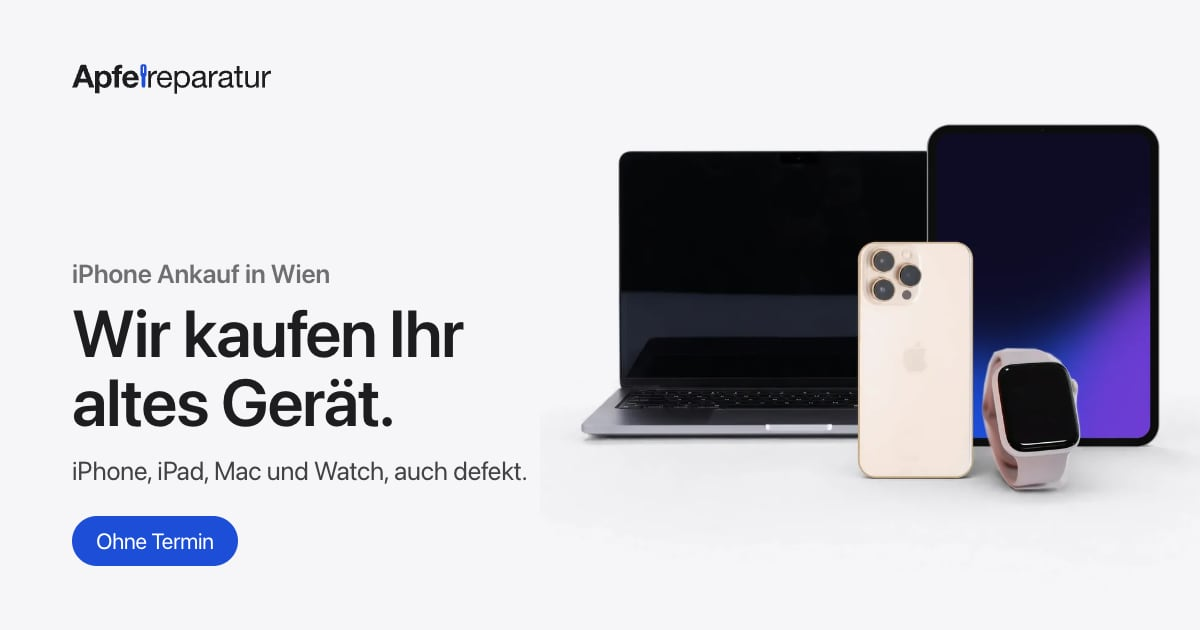
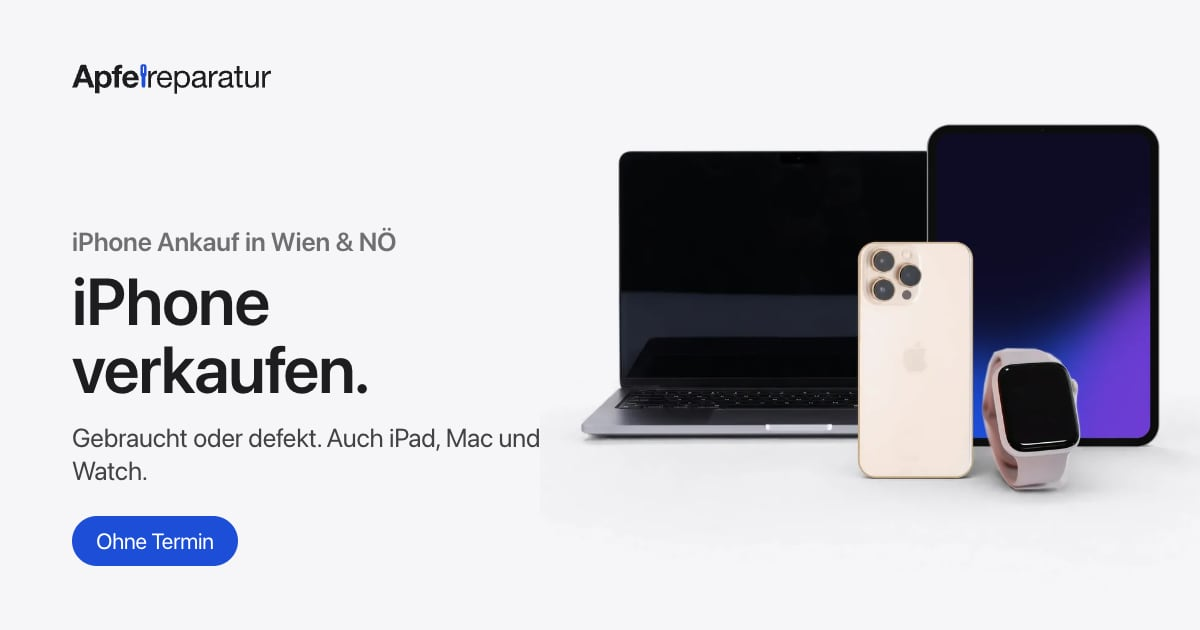
feat(ankauf): iPhone verkaufen page with value factors, walk-in stores and prep guide
Targets iPhone verkaufen / iPhone Ankauf Wien & NÖ, adds 'Was ist mein
iPhone noch wert?', a 'Kein Termin nötig' store block above the form, a
6-step pre-sale checklist and 11 FAQs (FAQPage JSON-LD).

Changed region(s): [[0.0617, 0.3619, 0.4625, 0.7841]]

diff --git a/src/lib/llms.ts b/src/lib/llms.ts
@@ -50,7 +50,7 @@ export function llmsTxt(locations: Location[]): string {
 		"",
 		"## Anfrage",
 		`- [Reparatur anfragen](${SITE}/reparatur-anfragen): Formular mit Gerät, Anliegen, Name, E-Mail, optional Telefon und Modell. Vorauswahl per URL: \`?geraet=iphone|ipad|mac|apple-watch&anliegen=display|rueckglas|akku|kamera|ladebuchse|tastatur|datenrettung|datenuebertragung\`. Das Formular ist als WebMCP-Tool \`request_repair\` annotiert.`,
-		`- [Gerät verkaufen (Ankauf)](${SITE}/ankauf): iPhone, iPad, Mac und Apple Watch, auch defekt. Formular mit Gerät, Modell, Speicher, Zustand, Übergabe (Standort oder Post), Name, E-Mail. Preis erst nach Prüfung des Geräts. Vorauswahl per URL: \`?geraet=iphone|ipad|mac|apple-watch&modell=…\`. WebMCP-Tool \`request_device_buyback\`.`,
+		`- [iPhone verkaufen (Ankauf)](${SITE}/ankauf): iPhone Ankauf in Wien & Niederösterreich, auch mit Displaybruch oder schwacher Batterie; ebenso iPad, Mac und Apple Watch. Ohne Termin im Shop verkaufen oder online anfragen. Seite erklärt die Preisfaktoren (Modell, Speicher, Batteriezustand, Display/Face ID, Teilehistorie, Aktivierungssperre) und die Vorbereitung (Backup, „Wo ist?“ aus, Apple Account abmelden, zurücksetzen). Formular mit Gerät, Modell, Speicher, Zustand, Übergabe (Standort oder Post), Name, E-Mail. Preis erst nach Prüfung des Geräts. Vorauswahl per URL: \`?geraet=iphone|ipad|mac|apple-watch&modell=…\`. WebMCP-Tool \`request_device_buyback\`.`,
 		`- [Standorte und Öffnungszeiten](${SITE}/kontakt)`,
 		"",
 		"## Optional",
